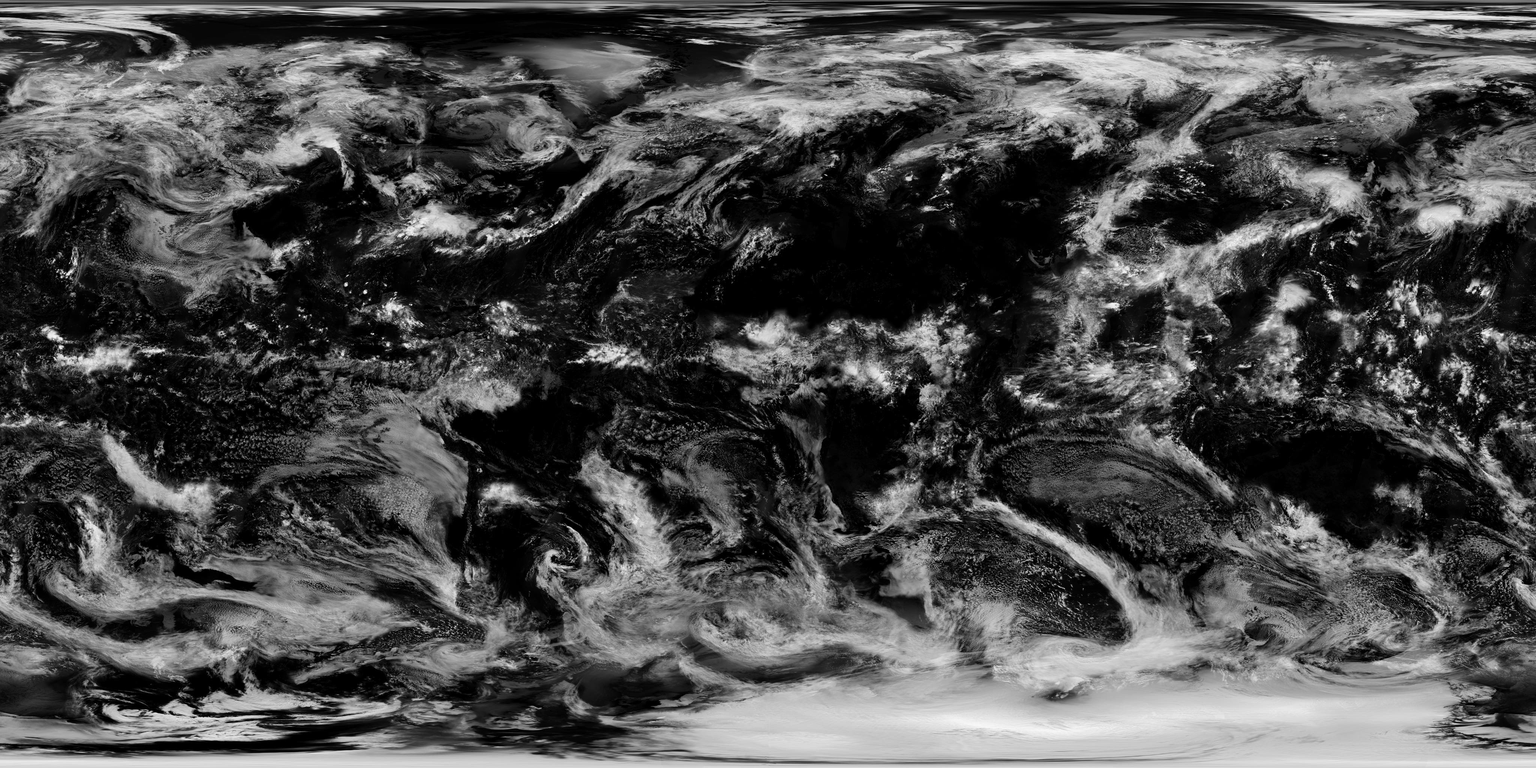
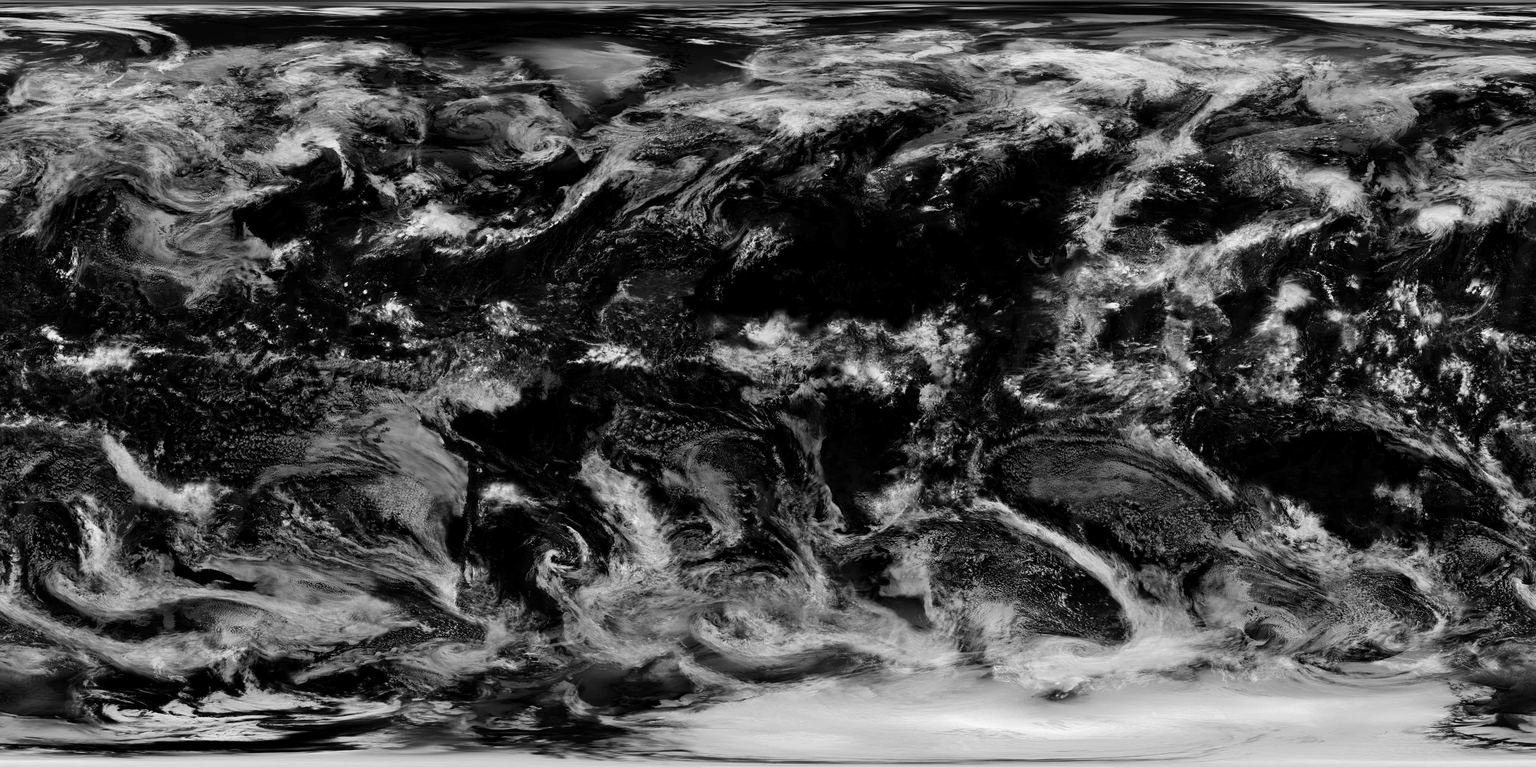
The Earth was rendering at half resolution the whole time
You said it looked like 360p on an old phone, and it very nearly was.

`devicePixelRatio` is 2 on this display, and the drawing buffer was sized
in CSS pixels — 1097 × 863 for a screen wanting 2194 × 1726. The browser
was scaling every rendered pixel up to four device pixels. That is the
entire scene at half resolution, and it was the reason the planet still
looked soft after the texture size and the camera height had both already
been fixed. Two earlier passes chased a symptom whose cause was one line
of buffer sizing.

Fixed, and capped at 2 — beyond that the fragment cost doubles again for
a difference nobody can point to, and this shader is not cheap: every
pixel marches the atmosphere sixteen times, each of those sampling the
light path six more.

That exposed the next limit honestly. At 2194 pixels across roughly 78°
of longitude, native resolution wants something like ten thousand texels;
the 4K set is 2.5× short. So the surface is now rebuilt from Blue Marble's
FULL 21600 × 10800 original rather than the 5400 version — even the 4K
and 2K tiers carry more real detail at the same file size, because
downscaling from 21600 keeps what downscaling from 5400 had already
thrown away.

And an 8192-wide surface is fetched AFTER the scene is drawing, then
swapped in. 2.8MB is far too much to wait for on the page that gates
everything; it is perfectly reasonable to arrive a few seconds later and
sharpen a picture that was already complete. Only the surface — cloud is
[…]

diff --git a/src/lib/environment/gl/scene.ts b/src/lib/environment/gl/scene.ts
@@ -57,8 +57,25 @@ const QUALITY = {
   full: { steps: 16, lightSteps: 6, scale: 1 },
   // Fewer samples and a smaller buffer, upscaled. The atmosphere is smooth, so
   // it survives resolution loss far better than the surface does.
-  low: { steps: 8, lightSteps: 3, scale: 0.6 },
+  low: { steps: 8, lightSteps: 3, scale: 0.62 },
 } as const;
+
+/**
+ * How many device pixels to render per CSS pixel.
+ *
+ * A canvas sized in CSS pixels on a display with `devicePixelRatio: 2` is
+ * rendered at half the screen's resolution and scaled up by the browser —
+ * every pixel becoming four. That is not a subtle softening; it is the whole
+ * scene at 360p on a retina display, and it was the reason the Earth still
+ * looked like a low-resolution image after the texture and the camera height
+ * were both fixed.
+ *
+ * Capped at 2. Beyond that the fragment cost doubles again for a difference
+ * nobody has ever been able to point to, and this shader is not cheap: every
+ * pixel marches the atmosphere sixteen times, each of those sampling the light
+ * path six more.
+ */
+const MAX_PIXEL_RATIO = 2;
 
 type Textures = { day: WebGLTexture; night: WebGLTexture; clouds: WebGLTexture };
 
@@ -224,6 +241,24 @@ export class PlanetScene {
         night: this.upload(night, 1),
         clouds: this.upload(clouds, 2),
       };
+
+      /**
+       * Then, quietly, a much larger surface.
+       *
+       * At device resolution the frame is over two thousand pixels wide across
+       * roughly 78° of longitude, which wants something like ten thousand
+       * texels to be native. The 4K set is 2.5× short of that — visibly soft on
+       * the one layer carrying recognisable detail.
+       *
+       * So the 8K surface is fetched AFTER the scene is already drawing, and
+       * swapped in when it arrives. 2.8MB is far too much to wait for on a
+       * login page; it is perfectly reasonable to arrive a few seconds later
+       * and quietly sharpen a picture that was already complete. Only the
+       * surface is upgraded — cloud is soft by nature and city lights are
+       * points, so neither repays the bytes.
+       */
+      if (set === "4k") void this.upgradeSurface(base);
+
       return true;
     } catch {
       // Offline, blocked, or a decode failure. The CSS scene stands.
@@ -245,6 +280,48 @@ export class PlanetScene {
    * for one answer.
    */
   private anisotropy: { ext: EXT_texture_filter_anisotropic; max: number } | null = null;
+
+  /**
+   * Replace the day texture with the 8K one, if the connection allows.
+   *
+   * Failure is silent and total: the scene keeps the texture it already has,
+   * which is a complete picture. Nothing waits on this and nothing reports it.
+   */
+  private async upgradeSurface(base: string): Promise<void> {
+    const connection = (navigator as { connection?: { saveData?: boolean; effectiveType?: string } })
+      .connection;
+    if (connection?.saveData) return;
+    // A slow link would spend a long time on this and arrive after the user has
+    // signed in and gone.
+    if (connection?.effectiveType && /2g|slow/.test(connection.effectiveType)) return;
+
+    try {
+      const image = await new Promise<HTMLImageElement>((resolve, reject) => {
+        const img = new Image();
+        const timer = setTimeout(() => reject(new Error("timed out")), 30_000);
+        img.onload = () => {
+          clearTimeout(timer);
+          resolve(img);
+        };
+        img.onerror = () => {
+          clearTimeout(timer);
+          reject(new Error("failed"));
+        };
+        img.src = `${base}/earth-day-8k.jpg`;
+      });
+
+      if (this.disposed || !this.textures) return;
+      const previous = this.textures.day;
+      this.textures = { ...this.textures, day: this.upload(image, 0) };
+      this.gl.deleteTexture(previous);
+      this.onUpgrade?.();
+    } catch {
+      // The 4K surface stands.
+    }
+  }
+
+  /** Called when a texture is swapped, so the scene can redraw immediately. */
+  onUpgrade: (() => void) | null = null;
 
   private upload(image: HTMLImageElement, unit: number): WebGLTexture {
     const gl = this.gl;
@@ -269,11 +346,14 @@ export class PlanetScene {
 
     const aniso = this.anisotropy;
     if (aniso?.ext) {
-      // Capped at 8: past that the returns are invisible and the cost is not.
+      /* Whatever the driver offers, up to 16. The incidence angle across the
+         visible part of this planet runs from about 40° to 90° — at the limb
+         the surface is edge-on — so the ratio between the two axes is large
+         and this is the one setting that addresses it directly. */
       gl.texParameterf(
         gl.TEXTURE_2D,
         aniso.ext.TEXTURE_MAX_ANISOTROPY_EXT,
-        Math.min(8, aniso.max)
+        Math.min(16, aniso.max)
       );
     }
 
@@ -370,8 +450,9 @@ export class PlanetScene {
     const gl = this.gl;
     const { steps, lightSteps, scale } = QUALITY[this.quality];
 
-    const width = Math.max(1, Math.round(this.canvas.clientWidth * scale));
-    const height = Math.max(1, Math.round(this.canvas.clientHeight * scale));
+    const dpr = Math.min(MAX_PIXEL_RATIO, typeof window === "undefined" ? 1 : window.devicePixelRatio || 1);
+    const width = Math.max(1, Math.round(this.canvas.clientWidth * scale * dpr));
+    const height = Math.max(1, Math.round(this.canvas.clientHeight * scale * dpr));
     if (this.canvas.width !== width || this.canvas.height !== height) {
       this.canvas.width = width;
       this.canvas.height = height;

diff --git a/src/components/login/PlanetCanvas.tsx b/src/components/login/PlanetCanvas.tsx
@@ -82,6 +82,10 @@ export function PlanetCanvas() {
       };
 
       unsubscribe = clock.onPublish(draw);
+      // A sharper surface arriving later must be drawn immediately rather than
+      // waiting for the next tick — on a still scene the next tick may be a
+      // while, and on a hidden tab it may never come.
+      scene.onUpgrade = draw;
       draw(); // Once immediately: the first frame must not wait for a tick.
       setLive(true);
       /**

diff --git a/public/scene/CREDITS.md b/public/scene/CREDITS.md
@@ -6,11 +6,19 @@ deserves it and because a future reader should be able to find the originals.
 
 | file            | source                                     | original       |
 | --------------- | ------------------------------------------ | -------------- |
-| `earth-day-*`   | Blue Marble Next Generation, December 2004 | 5400 × 2700    |
+| `earth-day-*`   | Blue Marble Next Generation, December 2004 | 21600 × 10800  |
 | `earth-night-*` | Black Marble 2016 (VIIRS day-night band)   | 13500 × 6750   |
 | `earth-clouds-*`| Blue Marble combined cloud composite       | 8192 × 4096    |
 
-**Two sets, chosen by device.** The 4K set totals 2.8MB and the 2K set 920KB, on
+**Three tiers, and a progressive upgrade.** The surface is fetched again at
+8192 × 4096 *after* the scene is already drawing, and swapped in when it
+arrives — 2.8MB is far too much to wait for on a login page, and perfectly
+reasonable to arrive a few seconds later and quietly sharpen a picture that was
+already complete. Only the surface is upgraded: cloud is soft by nature and city
+lights are points, so neither repays the bytes. Skipped entirely on `saveData`
+or a 2G-class connection.
+
+**Two base sets, chosen by device.** The 4K set totals 2.8MB and the 2K set 920KB, on
 a page that has to load before anybody can do anything. A phone gains almost
 nothing from 4K — the frame is a third the width — and a metered connection
 loses real money for it, so `navigator.connection.saveData` is honoured as the
